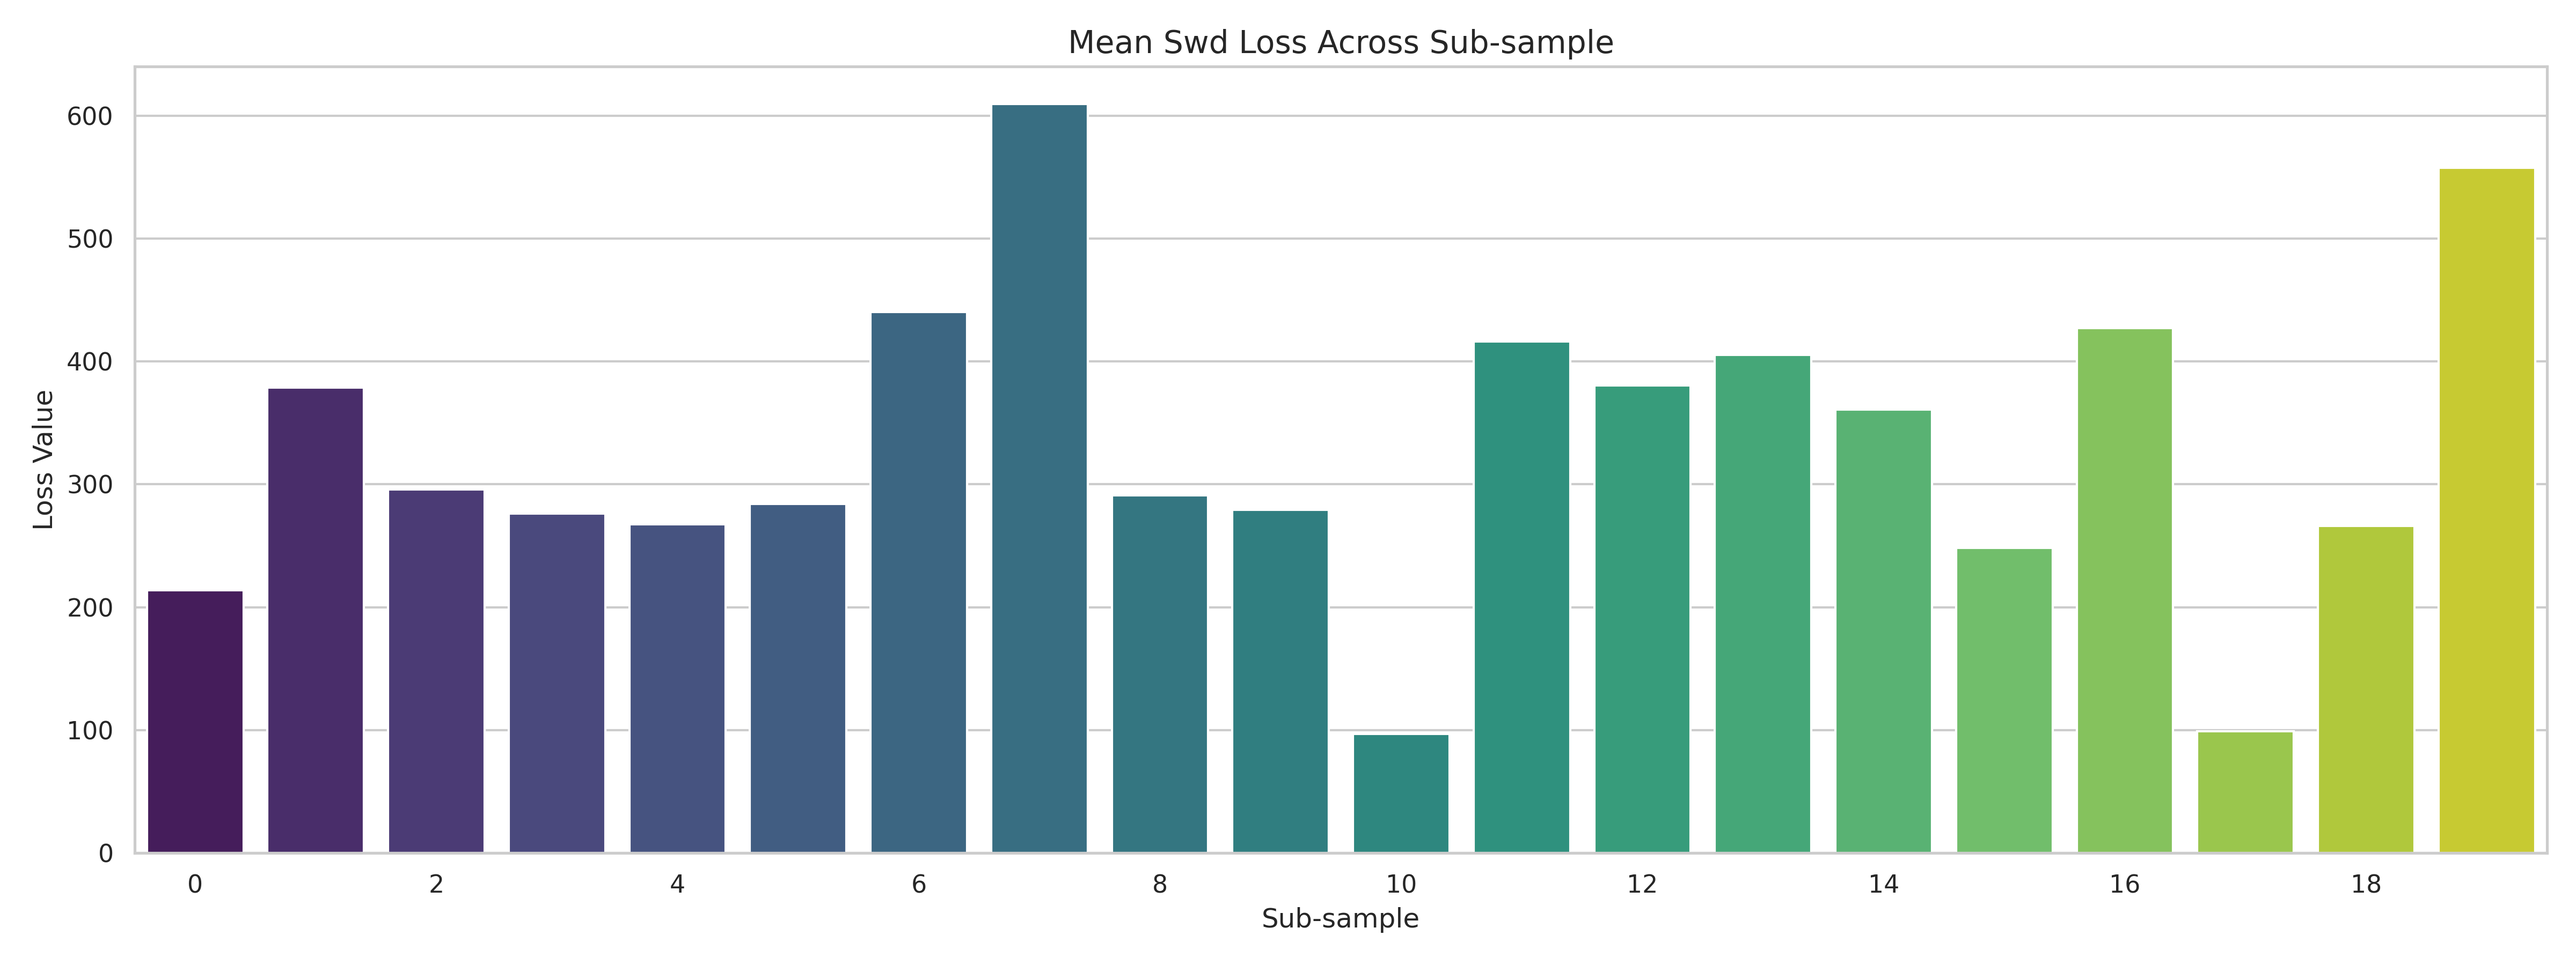
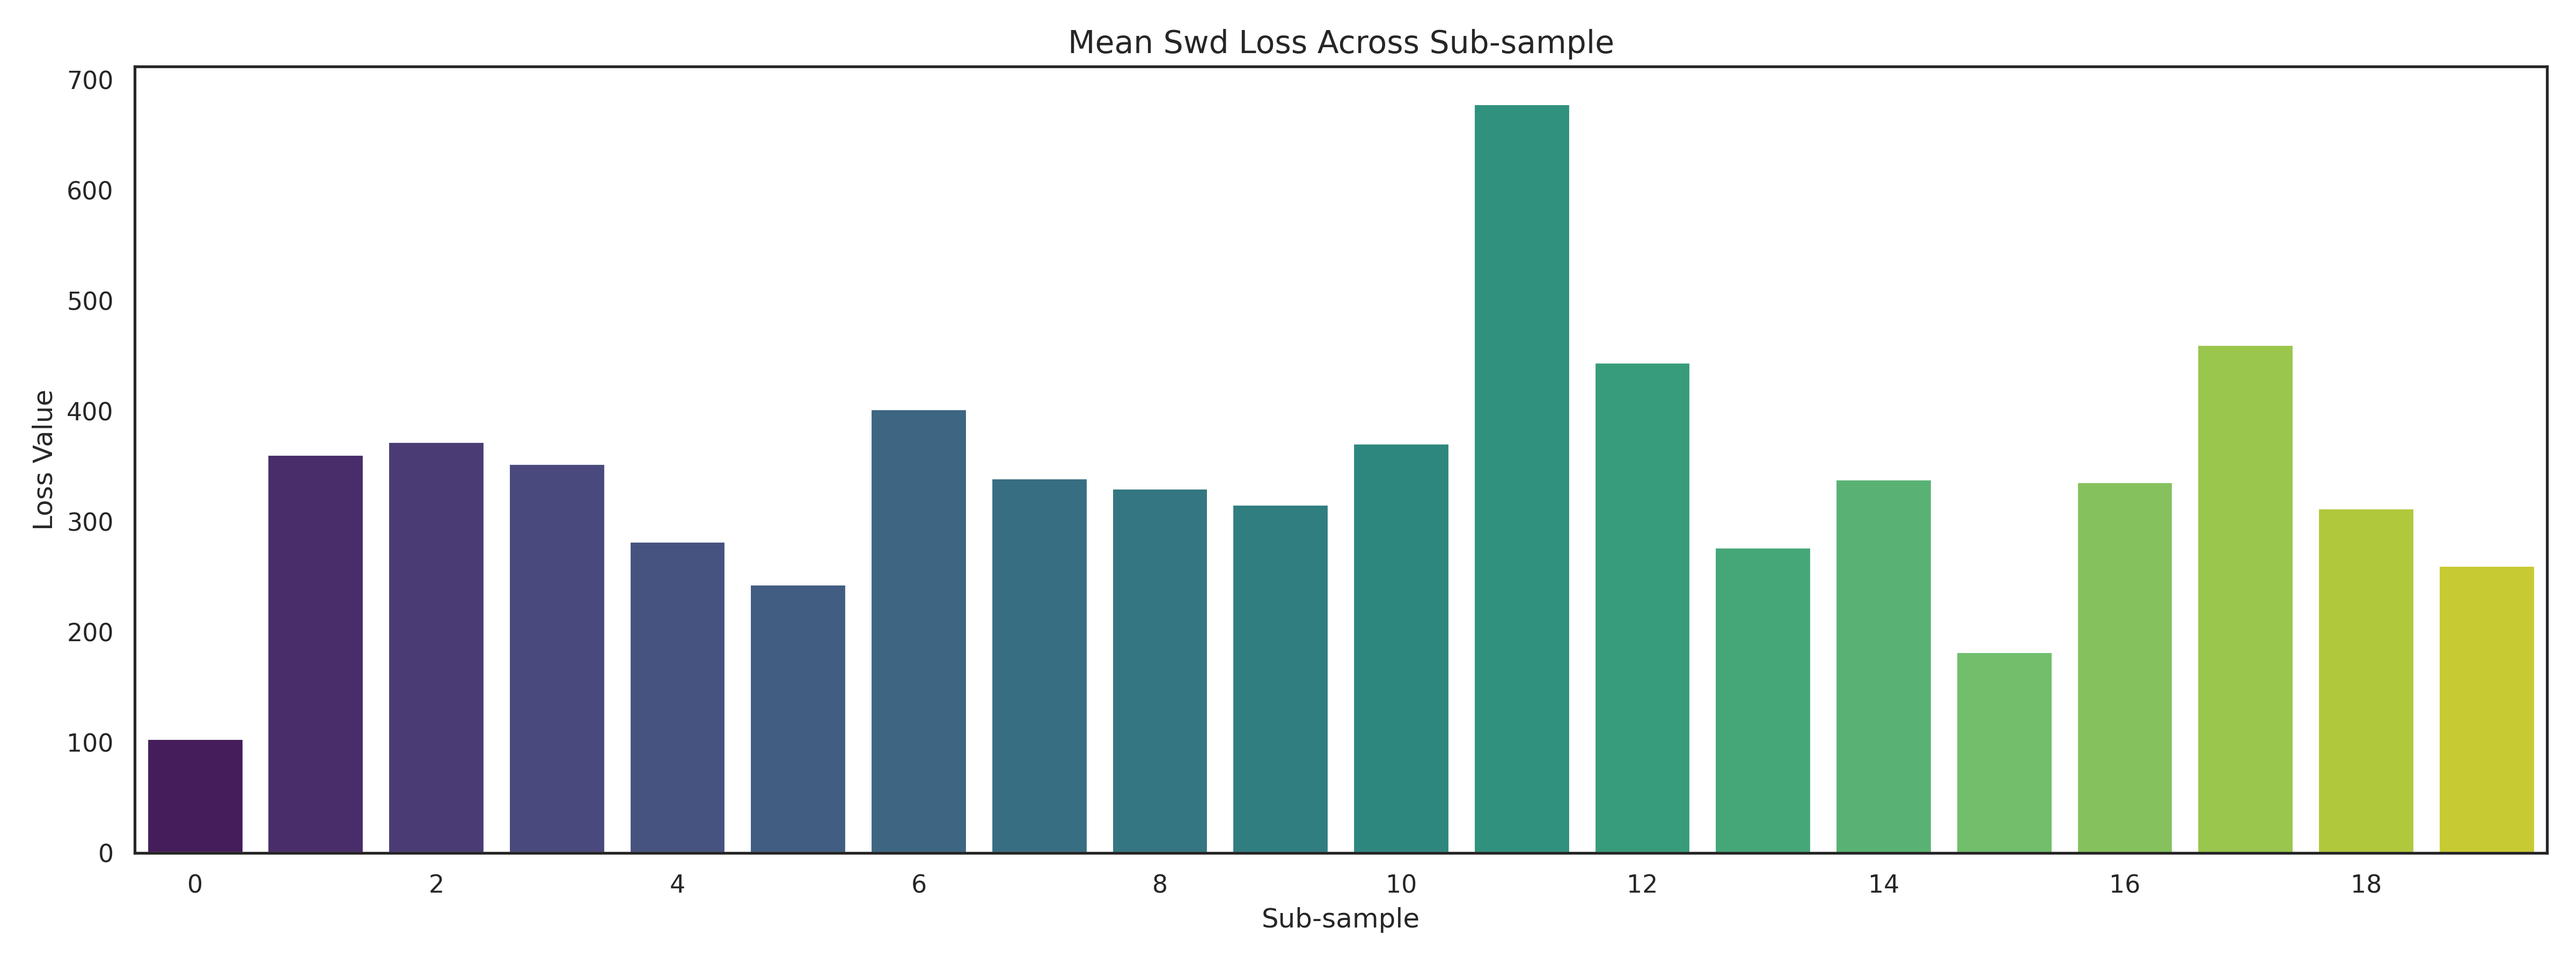
add

diff --git a/gap/gap-visualize.py b/gap/gap-visualize.py
@@ -75,7 +75,8 @@ def visualize_losses(json_file, output_dir="vis", sample_size=20):
     print(f"已保存 loss 统计结果: {stats_file}")
     
     # 设置 Seaborn 主题
-    sns.set_theme(style="whitegrid")
+    # sns.set_theme(style="whitegrid")
+    sns.set_theme(style="white")
     
     # 动态设置图像宽度：每个实验占 0.8 英寸，最小宽度 8 英寸，最大不超过 20 英寸
     width_inches = min(max(8, len(subs) * 0.8), 20)
@@ -101,8 +102,8 @@ def visualize_losses(json_file, output_dir="vis", sample_size=20):
         print(f"已保存 {loss_type} 图: {out_path}")
 
 # 示例调用：
-# visualize_losses("/home/lenovo/data/liujiaji/yolov8/ultralytics-main-8.2.50/gap/c2f_gap.json", output_dir="vis/city_to_foggy")
+visualize_losses("/home/lenovo/data/liujiaji/yolov8/ultralytics-main-8.2.50/gap/c2f_gap.json", output_dir="vis/city_to_foggy")
 # visualize_losses("/home/lenovo/data/liujiaji/yolov8/ultralytics-main-8.2.50/gap/s2c_gap.json", output_dir="vis/sim10k_to_city")
 # visualize_losses("/home/lenovo/data/liujiaji/yolov8/ultralytics-main-8.2.50/gap/v2c_gap.json", output_dir="vis/voc_to_clipart1k")
 # # visualize_losses("/home/lenovo/data/liujiaji/yolov8/ultralytics-main-8.2.50/gap/pr2pu_gap.json", output_dir="vis/privatepower_to_publicpower")
-visualize_losses("/home/lenovo/data/liujiaji/yolov8/ultralytics-main-8.2.50/gap/pu2pr_gap.json", output_dir="vis/publicpower_to_privatepower")
+# visualize_losses("/home/lenovo/data/liujiaji/yolov8/ultralytics-main-8.2.50/gap/pu2pr_gap.json", output_dir="vis/publicpower_to_privatepower")
